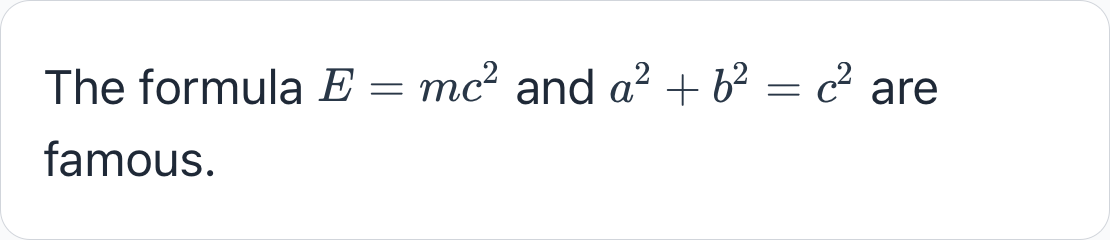
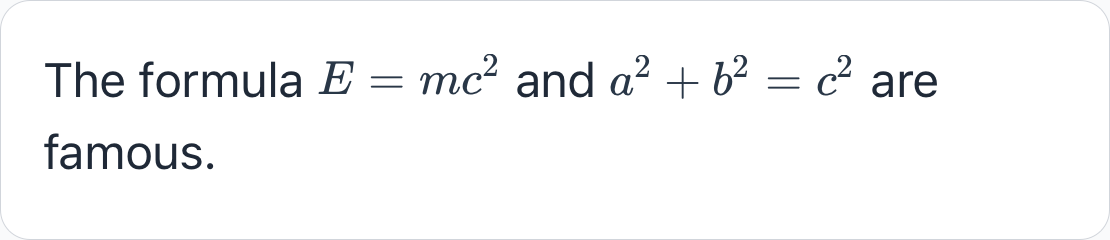
fix(ios): inline math height calculations (#522)
* fix(ios): inline math height calculations

* fix: cr changes

* test: update tests

Pull request: fix(ios): inline math height calculations
### What/Why?
Problem: On iOS, inline math on a line by itself (e.g. $2\pi$, $x$, $g$) sat visually low relative to a centered row; taller
formulas (`\frac`, `\sum`) looked fine. Android looked correct throughout.

Root cause: In ParagraphStyleUtils.m, applyLineHeight sets `maximumLineHeight = 0` for math paragraphs so tall formulas can grow the line. But applyBaselineOffset - which vertically centers content inside an expanded line - bailed out on `maximumLineHeight <= 0`, so math paragraphs never got centered at all. Android's LineHeightSpan always splits leading symmetrically around the line's real metrics (which include the math box), so it centered by default.

Why it's scoped safely:
- Plain-text and mixed-content paragraphs are behaviorally unchanged.
- Only math-only lines change: they now center the box instead of baseline-aligning it under a text-sized offset.
- Tall formulas are untouched (early return).

This is the follow-up to the merged PR #459 (which added the font attribute but explicitly deferred the shallow-formula offset). It still needs a simulator build to confirm pixels — the offset math assumes TextKit adds the min-line-height slack above the glyph, same as the existing baseline-offset code.


### Testing
Recreate code from issues:

<details>
<summary> App.tsx in example app</summary>

```js
import { ScrollView, StyleSheet, Text, View } from 'react-native';
[…]

Changed region(s): [[0.0306, 0.2333, 0.8577, 0.4375], [0.0306, 0.5542, 0.2144, 0.7583]]

diff --git a/packages/react-native-enriched-markdown/ios/utils/ParagraphStyleUtils.m b/packages/react-native-enriched-markdown/ios/utils/ParagraphStyleUtils.m
@@ -284,7 +284,8 @@ void applyBaselineOffset(NSMutableAttributedString *output, NSRange range)
     return;
   }
 
-  __block CGFloat maximumLineHeight = 0;
+  // Math paragraphs leave maximumLineHeight at 0, so fall back to minimumLineHeight.
+  __block CGFloat targetLineHeight = 0;
   [output enumerateAttribute:NSParagraphStyleAttributeName
                      inRange:range
                      options:NSAttributedStringEnumerationLongestEffectiveRangeNotRequired
@@ -292,29 +293,59 @@ void applyBaselineOffset(NSMutableAttributedString *output, NSRange range)
                     if (!paragraphStyle) {
                       return;
                     }
-                    maximumLineHeight = MAX(paragraphStyle.maximumLineHeight, maximumLineHeight);
+                    CGFloat clamp = MAX(paragraphStyle.maximumLineHeight, paragraphStyle.minimumLineHeight);
+                    targetLineHeight = MAX(clamp, targetLineHeight);
                   }];
 
-  if (maximumLineHeight <= 0) {
+  if (targetLineHeight <= 0) {
     return;
   }
 
-  __block CGFloat maximumFontLineHeight = 0;
-  [output enumerateAttribute:NSFontAttributeName
-                     inRange:range
-                     options:NSAttributedStringEnumerationLongestEffectiveRangeNotRequired
-                  usingBlock:^(UIFont *font, __unused NSRange subrange, __unused BOOL *stop) {
-                    if (!font) {
-                      return;
-                    }
-                    maximumFontLineHeight = MAX(UIFontLineHeight(font), maximumFontLineHeight);
-                  }];
+  // Center on real text; on a math-only line center the math box instead of its font.
+  __block CGFloat textLineHeight = 0;
+#if ENRICHED_MARKDOWN_MATH
+  __block BOOL hasMath = NO;
+#endif
+  [output enumerateAttributesInRange:range
+                             options:0
+                          usingBlock:^(NSDictionary<NSAttributedStringKey, id> *attrs, __unused NSRange subrange,
+                                       __unused BOOL *stop) {
+#if ENRICHED_MARKDOWN_MATH
+                            if ([attrs[NSAttachmentAttributeName] isKindOfClass:[ENRMMathInlineAttachment class]]) {
+                              hasMath = YES;
+                              return;
+                            }
+#endif
+                            UIFont *font = attrs[NSFontAttributeName];
+                            if (font) {
+                              textLineHeight = MAX(UIFontLineHeight(font), textLineHeight);
+                            }
+                          }];
 
-  if (maximumFontLineHeight <= 0 || maximumLineHeight < maximumFontLineHeight) {
+  CGFloat contentLineHeight = textLineHeight;
+
+#if ENRICHED_MARKDOWN_MATH
+  // Math only grows the content height, so measure it (parsing LaTeX) only when text
+  // alone wouldn't already fill the line.
+  if (hasMath && targetLineHeight > textLineHeight) {
+    __block CGFloat mathBoxHeight = 0;
+    [output enumerateAttribute:NSAttachmentAttributeName
+                       inRange:range
+                       options:0
+                    usingBlock:^(id value, __unused NSRange subrange, __unused BOOL *stop) {
+                      if ([value isKindOfClass:[ENRMMathInlineAttachment class]]) {
+                        mathBoxHeight = MAX(((ENRMMathInlineAttachment *)value).boxHeight, mathBoxHeight);
+                      }
+                    }];
+    contentLineHeight = MAX(textLineHeight, mathBoxHeight);
+  }
+#endif
+
+  if (contentLineHeight <= 0 || targetLineHeight <= contentLineHeight) {
     return;
   }
 
-  CGFloat baseLineOffset = (maximumLineHeight - maximumFontLineHeight) / 2.0;
+  CGFloat baseLineOffset = (targetLineHeight - contentLineHeight) / 2.0;
 
   [output enumerateAttribute:NSBaselineOffsetAttributeName
                      inRange:range

diff --git a/packages/react-native-enriched-markdown/ios/attachments/ENRMMathInlineAttachment.m b/packages/react-native-enriched-markdown/ios/attachments/ENRMMathInlineAttachment.m
@@ -10,6 +10,14 @@
 
 @implementation ENRMMathInlineAttachment
 
+- (CGFloat)boxHeight
+{
+#if !TARGET_OS_OSX
+  [self prepareIfNeeded];
+#endif
+  return _cachedSize.height;
+}
+
 #if !TARGET_OS_OSX
 
 - (void)prepareIfNeeded

diff --git a/packages/react-native-enriched-markdown/ios/attachments/ENRMMathInlineAttachment.h b/packages/react-native-enriched-markdown/ios/attachments/ENRMMathInlineAttachment.h
@@ -9,6 +9,8 @@ NS_ASSUME_NONNULL_BEGIN
 @property (nonatomic, assign) CGFloat fontSize;
 @property (nonatomic, strong, nullable) RCTUIColor *mathTextColor;
 
+@property (nonatomic, readonly) CGFloat boxHeight;
+
 #if TARGET_OS_OSX
 /// Pre-renders the formula into self.image and sets self.bounds.
 /// Must be called after latex/fontSize/mathTextColor are set, before the